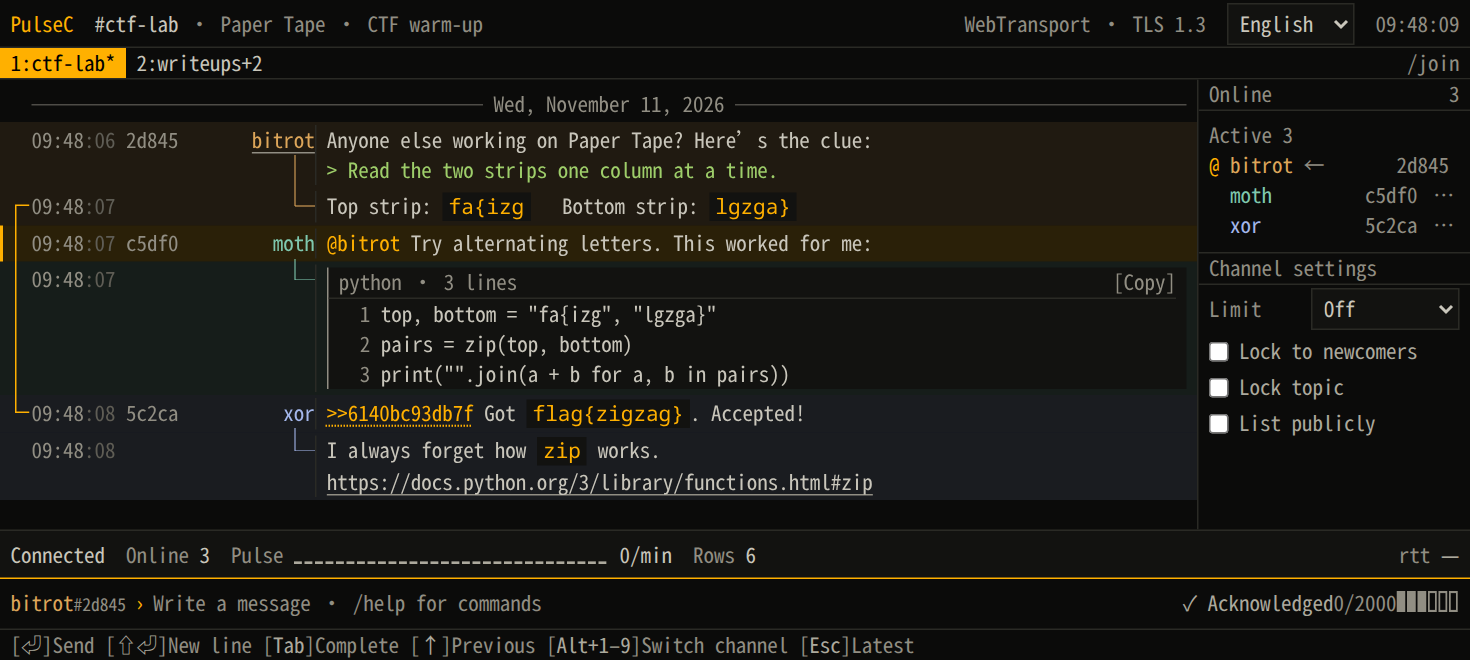
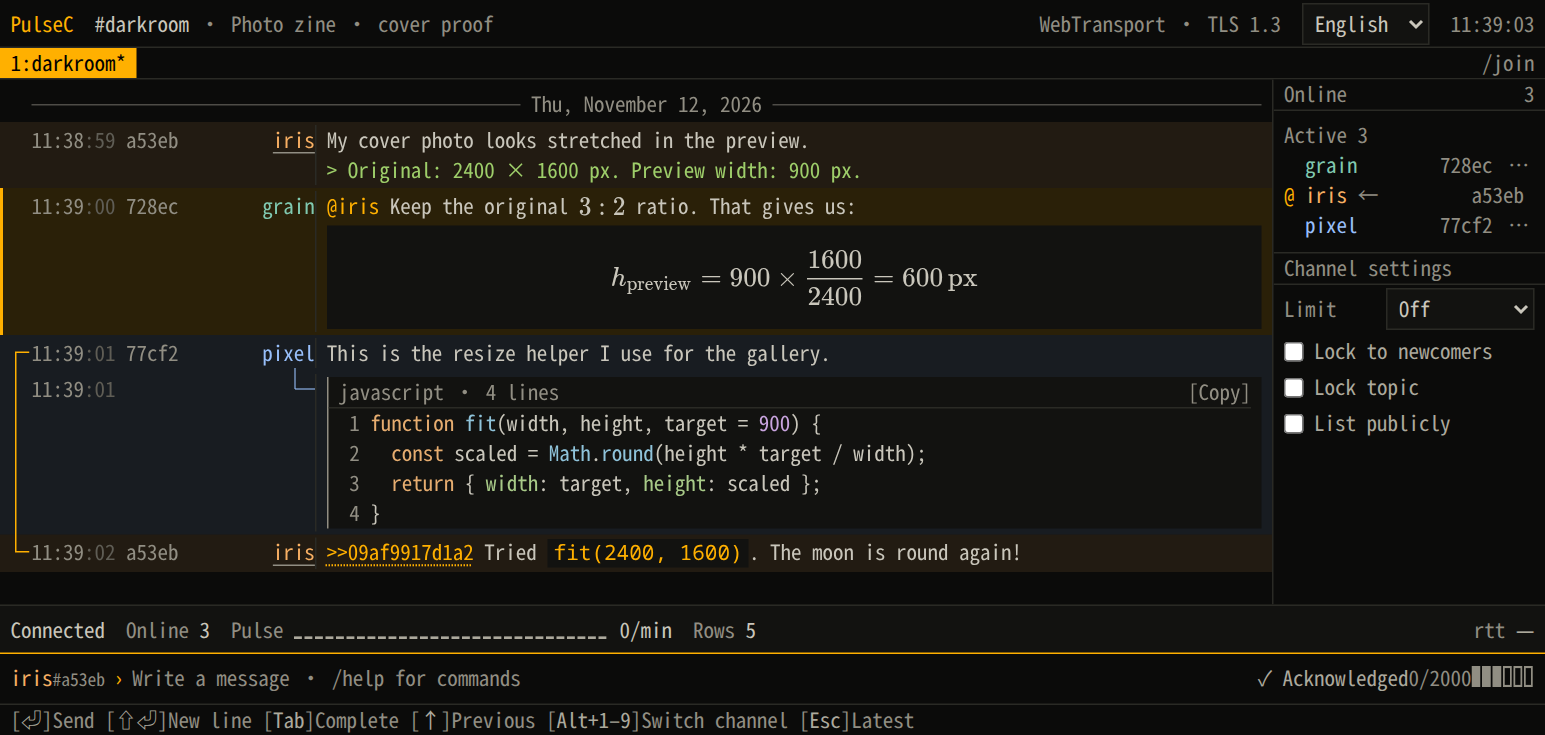
docs: add badges, security warning, LaTeX/code examples, and new screenshots
Add build status, Docker pulls, license, Go version, and tech stack badges to README headers. Replace CTF-themed example channel with generic "lobby" throughout documentation. Add security warning SVG in both languages advising against sharing sensitive information on untrusted servers.

Expand quick start with LaTeX formula syntax ($x^2$ inline, $$x^2$$ block) and code fence examples with syntax highlighting. Add Preview

diff --git a/README.md b/README.md
@@ -2,18 +2,27 @@
 
 **English** · [简体中文](README.zh-CN.md)
 
-PulseC is a self-hosted browser chat. Open a channel link and pick a nickname to join. Your CTF team can trade code snippets, quote a clue, or send a private reply without creating an account.
+[![Build status](https://github.com/Illusion2-1/PulseC/actions/workflows/check.yml/badge.svg?branch=main)](https://github.com/Illusion2-1/PulseC/actions/workflows/check.yml)
+[![Docker pulls](https://img.shields.io/docker/pulls/illusionn21/pulsec?logo=docker&logoColor=white)](https://hub.docker.com/r/illusionn21/pulsec)
+[![MIT license](https://img.shields.io/badge/License-MIT-397254)](LICENSE)
+![Go version](https://img.shields.io/github/go-mod/go-version/Illusion2-1/PulseC?logo=go&logoColor=white)
+![SvelteKit](https://img.shields.io/badge/SvelteKit-FF3E00?logo=svelte&logoColor=white)
+![TypeScript](https://img.shields.io/badge/TypeScript-3178C6?logo=typescript&logoColor=white)
+![WebTransport over HTTP/3](https://img.shields.io/badge/WebTransport-HTTP%2F3-7A5524)
+![LaTeX with KaTeX](https://img.shields.io/badge/LaTeX-KaTeX-16645B)
+
+PulseC is a self-hosted platform for anonymous chat in your browser. Open a channel link, pick a nickname, and start talking. No account needed.
 
 The server can read the messages it forwards, including private replies. It keeps no chat history. Your tab remembers recent messages across refreshes. People who join later see only new messages.
 
-![Three players solve a CTF word puzzle in #ctf-lab. The chat shows a Python code block, a mention, and a line connecting a reply to the clue it quotes.](docs/chat.en.png)
+## Preview
 
-<details>
-<summary>On mobile · reviewing the write-up</summary>
+![Desktop chat with LaTeX and JavaScript syntax highlighting](docs/chat.en.png)
 
-<img src="docs/mobile.en.png" width="390" alt="In #writeups, a teammate mentions moth about a missing test case. An italic action and a purple private reply follow.">
-
-</details>
+<p>
+  <a href="docs/soundcheck.en.png"><img src="docs/soundcheck.en.png" width="69%" alt="Aligned equations and highlighted Python"></a>
+  <a href="docs/mobile.en.png"><img src="docs/mobile.en.png" width="28%" alt="Mobile chat with mentions and private replies"></a>
+</p>
 
 ![With 512 clients on one machine, 99% of deliveries took up to 13.34 ms in a single channel or 0.76 ms when split across 32 channels. Median of three runs per layout.](docs/latency.en.png)
 
@@ -25,11 +34,15 @@ On Linux with Docker Compose 2.24.4 or newer, run this from the project director
 docker compose -f compose.yaml -f compose.local.yaml up -d --no-build
 ```
 
-1. Open [the ctf-lab channel](http://127.0.0.1:8443/?ch=ctf-lab) in a browser that supports WebTransport, such as Chrome.
-2. Pick a nickname, leave the password blank, and click `/join #ctf-lab`.
+1. Open [the lobby](http://127.0.0.1:8443/?ch=lobby) in a browser that supports WebTransport, such as Chrome.
+2. Pick a nickname, leave the password blank, and click `/join #lobby`.
 3. Open the same link in a second tab and join under another name. Send a message with **Enter** and watch it appear in both tabs. Type `/help` for chat commands.
 
+Try `$x^2$` inside a sentence or `$$x^2$$` on its own line for a larger formula. For highlighted code, start a line with `` ```python ``, paste your code on the following lines, and close with three backticks. Use **Shift+Enter** for line breaks.
+
 ## Host a room for others
+
+<p align="center"><img src="docs/server-warning.en.svg" width="536" alt="Do not share sensitive information on a untrusted server."></p>
 
 Point your domain at a Linux server and open TCP ports 80 and 443 and UDP port 443. Add `PULSEC_DOMAIN=chat.example.org` to the project's `.env` file, using your own domain. Then run the command below. The included Certbot service obtains and renews the HTTPS certificate.
 
@@ -37,7 +50,7 @@ Point your domain at a Linux server and open TCP ports 80 and 443 and UDP port 4
 docker compose -f compose.yaml -f compose.direct.yaml up -d --no-build
 ```
 
-When the certificate is ready, create or join a channel and copy the link from your address bar to invite others, for example `https://chat.example.org/?ch=ctf-lab`. The address updates when you switch channels.
+When the certificate is ready, create or join a channel and copy the link from your address bar to invite others, for example `https://chat.example.org/?ch=lobby`. The address updates when you switch channels.
 
 Already running Caddy on the host? With a Caddy build that supports WebTransport proxying, set `PULSEC_BEHIND_PROXY=true` in `.env`, run the local Compose command above, and follow the [Caddyfile example](deploy/Caddyfile).
 
